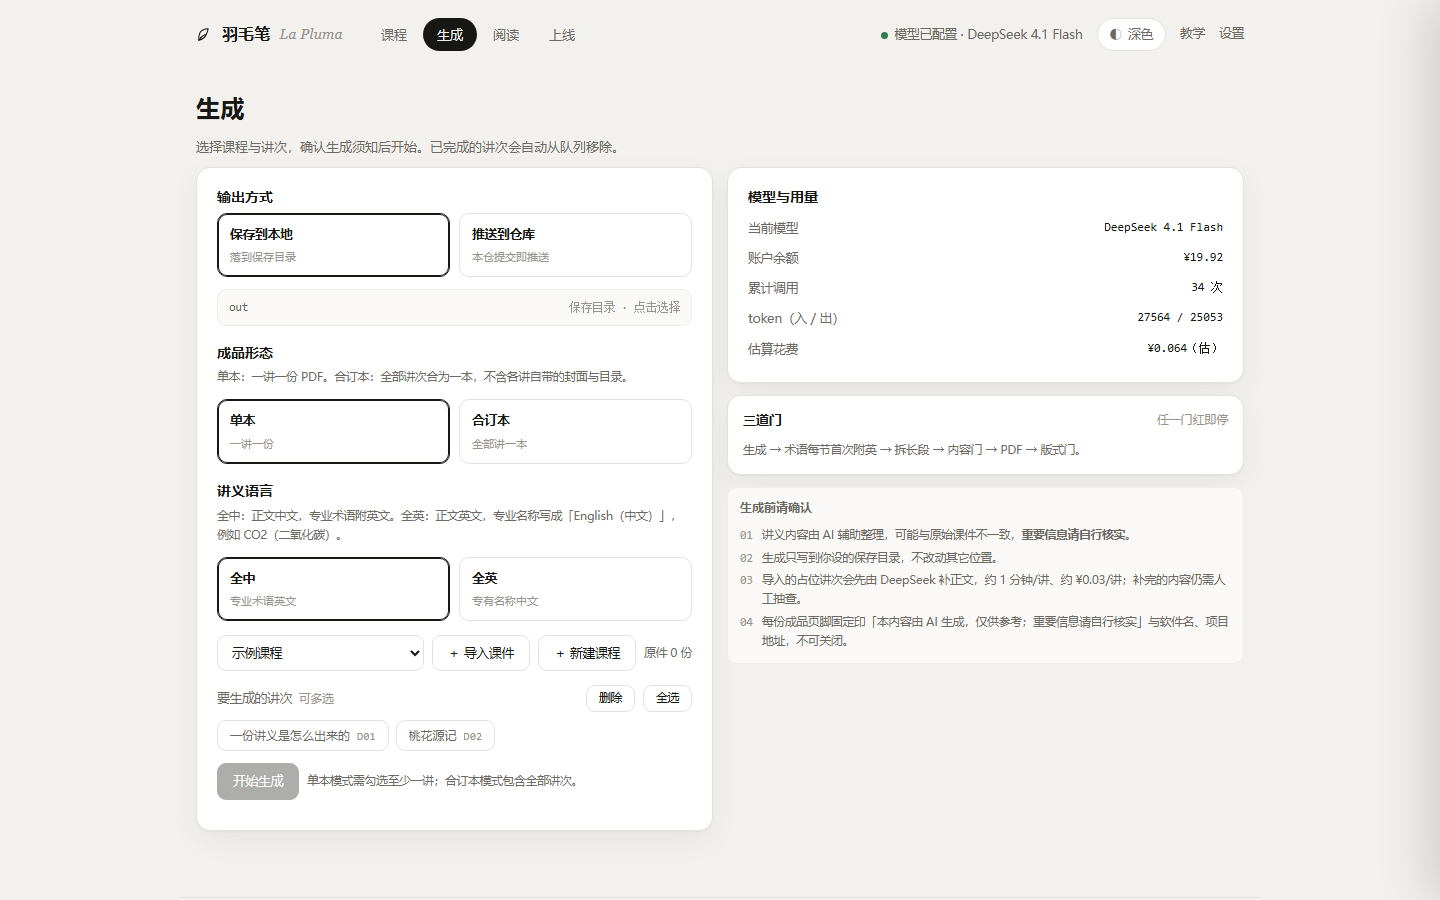
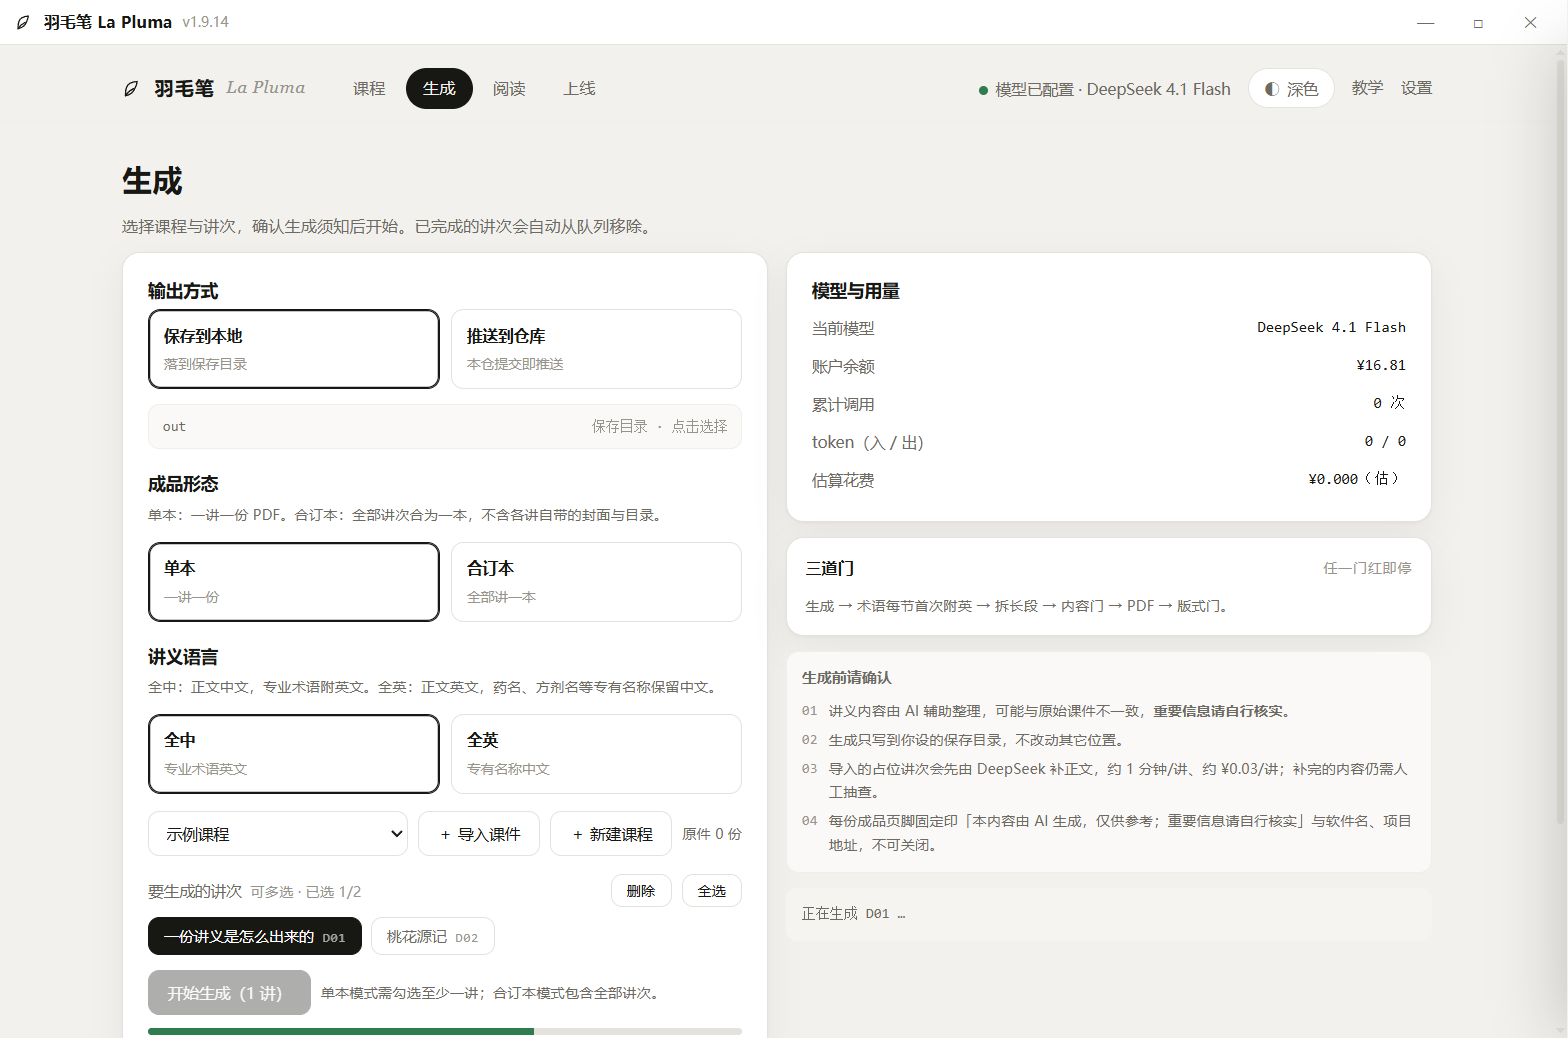
style(copy): 三道门流程并入标题（灰色小注 35→34）+ 重拍生成页截图

diff --git a/ui/index.html b/ui/index.html
@@ -702,8 +702,7 @@ footer{max-width:1080px;margin:26px auto 0;padding:0 16px;display:flex;align-ite
           <div class="kv"><span>估算花费</span><b id="mCost">—</b></div>
         </div>
         <div class="rcard" style="margin-top:12px">
-          <h5>三道门<span class="n">任一门红即停</span></h5>
-          <p class="hint" style="border:0;padding:0;margin:0">生成 → 术语每节首次附英 → 拆长段 → 内容门 → PDF → 版式门。</p>
+          <h5>三道门<span class="n">任一门红即停 · 生成 → 术语每节首次附英 → 拆长段 → 内容门 → PDF → 版式门</span></h5>
         </div>
         <div class="gen-note" id="genNote">
           <h5>生成前请确认</h5>
